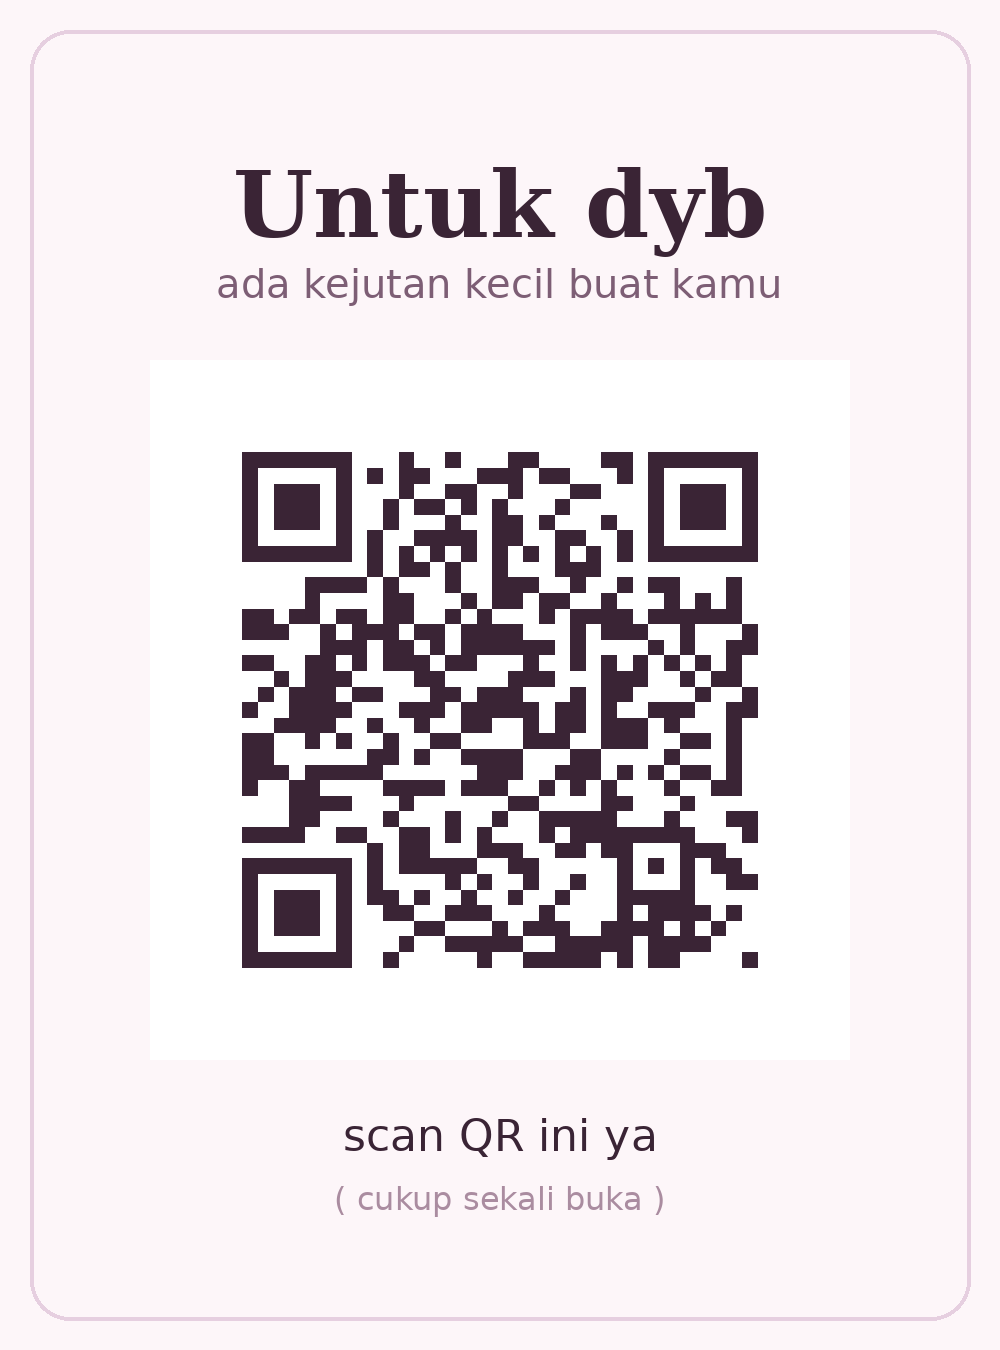
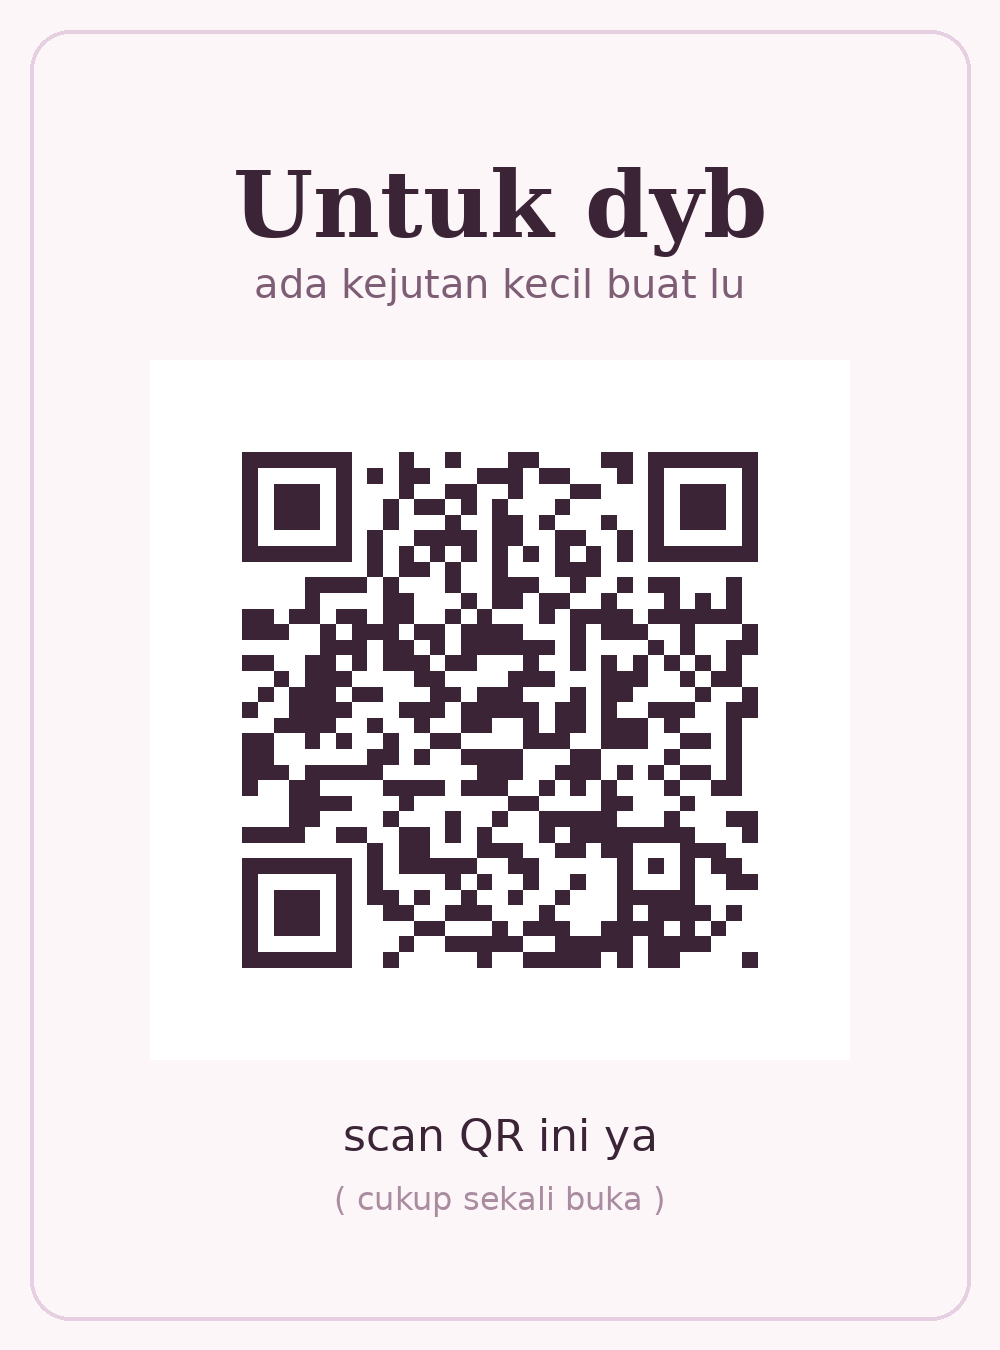
Ganti sapaan ke gaya 'gw'/'lu' di seluruh teks + kartu QR
Claude-Session: https://claude.ai/code/session_01PSqW9EcxMxbndFDXePT17g

Changed region(s): [[0.217, 0.1867, 0.775, 0.2178]]

diff --git a/index.html b/index.html
@@ -197,7 +197,7 @@
     <section class="screen" id="intro">
       <div class="eyebrow">sebuah kejutan kecil</div>
       <h1>Hai, dyb 🌷</h1>
-      <p class="sub">ada sesuatu yang mau aku kasih ke kamu.<br />telat sih... tapi niatnya beneran kok 😄</p>
+      <p class="sub">ada sesuatu yang mau gw kasih ke lu.<br />telat sih... tapi niatnya beneran kok 😄</p>
       <button class="btn" id="startBtn">Buka</button>
     </section>
 
@@ -205,7 +205,7 @@
     <section class="screen" id="assemble">
       <div class="eyebrow">rakit dulu ya</div>
       <h2>Susun bunga lily-nya 🌸</h2>
-      <p class="hint">katanya kamu jago bikin bunga dari pita kawat, kan? nah, sekarang giliran kamu mekarin yang satu ini — klik tiap kelopaknya.</p>
+      <p class="hint">katanya lu jago bikin bunga dari pita kawat, kan? nah, sekarang giliran lu mekarin yang satu ini — klik tiap kelopaknya.</p>
 
       <div class="lily-wrap">
         <svg id="lily" viewBox="0 0 400 400" role="img" aria-label="bunga lily yang sedang disusun">
@@ -236,12 +236,12 @@
     <section class="screen" id="message">
       <div class="mini-lily">🌷</div>
       <h1>Selamat ulang tahun, dyb!</h1>
-      <div class="late">(iya iya, aku tau telat... maaf ya 😆)</div>
+      <div class="late">(iya iya, gw tau telat... maaf ya 😆)</div>
       <div class="card">
-        <p>Bunga lily yang barusan kamu susun itu — anggap aja hadiah kecil dariku. Kamu kan suka lily, dan kamu juga yang jago bikin bunga dari pita kawat. Jadi kayaknya pas aja kalau yang ini pun kamu sendiri yang mekarin. 🌸</p>
-        <p>Eh, ngomong-ngomong... masih inget nggak pas rapat IBASS? Aku sok tau nunjuk sesuatu, kukira apaan gitu — <strong>eh taunya KECOA</strong>, terus dia malah lari ke <em>kaki kamu</em> 🪳😂 Maaf banget ya waktu itu wkwk. Tapi jujur, sampai sekarang itu jadi salah satu momen paling ngakak buat aku.</p>
+        <p>Bunga lily yang barusan lu susun itu — anggap aja hadiah kecil dari gw. Lu kan suka lily, dan lu juga yang jago bikin bunga dari pita kawat. Jadi kayaknya pas aja kalau yang ini pun lu sendiri yang mekarin. 🌸</p>
+        <p>Eh, ngomong-ngomong... masih inget nggak pas rapat IBASS? Gw sok tau nunjuk sesuatu, kirain apaan gitu — <strong>eh taunya KECOA</strong>, terus dia malah lari ke <em>kaki lu</em> 🪳😂 Maaf banget ya waktu itu wkwk. Tapi jujur, sampai sekarang itu jadi salah satu momen paling ngakak buat gw.</p>
         <p>Pokoknya, selamat ultah ya (telat, hehe). Semoga tahun ini lancar semuanya — sehat, seneng, dan makin banyak momen ngakak kayak gitu. Makasih udah jadi temen yang asik. 🌼</p>
-        <p class="sign">— dari temenmu 🌷</p>
+        <p class="sign">— dari temen lu 🌷</p>
       </div>
       <p class="whisper">psst — pesan ini cuma bisa dibuka sekali. jadi... nikmatin ya 🥀</p>
     </section>
@@ -250,7 +250,7 @@
     <section class="screen" id="burned">
       <div class="rose">🥀</div>
       <h2>pesan ini sudah hangus...</h2>
-      <p>kamu udah pernah bukanya kok.<br />semoga isinya masih kamu inget 🌷</p>
+      <p>lu udah pernah bukanya kok.<br />semoga isinya masih lu inget 🌷</p>
     </section>
 
   </div>
